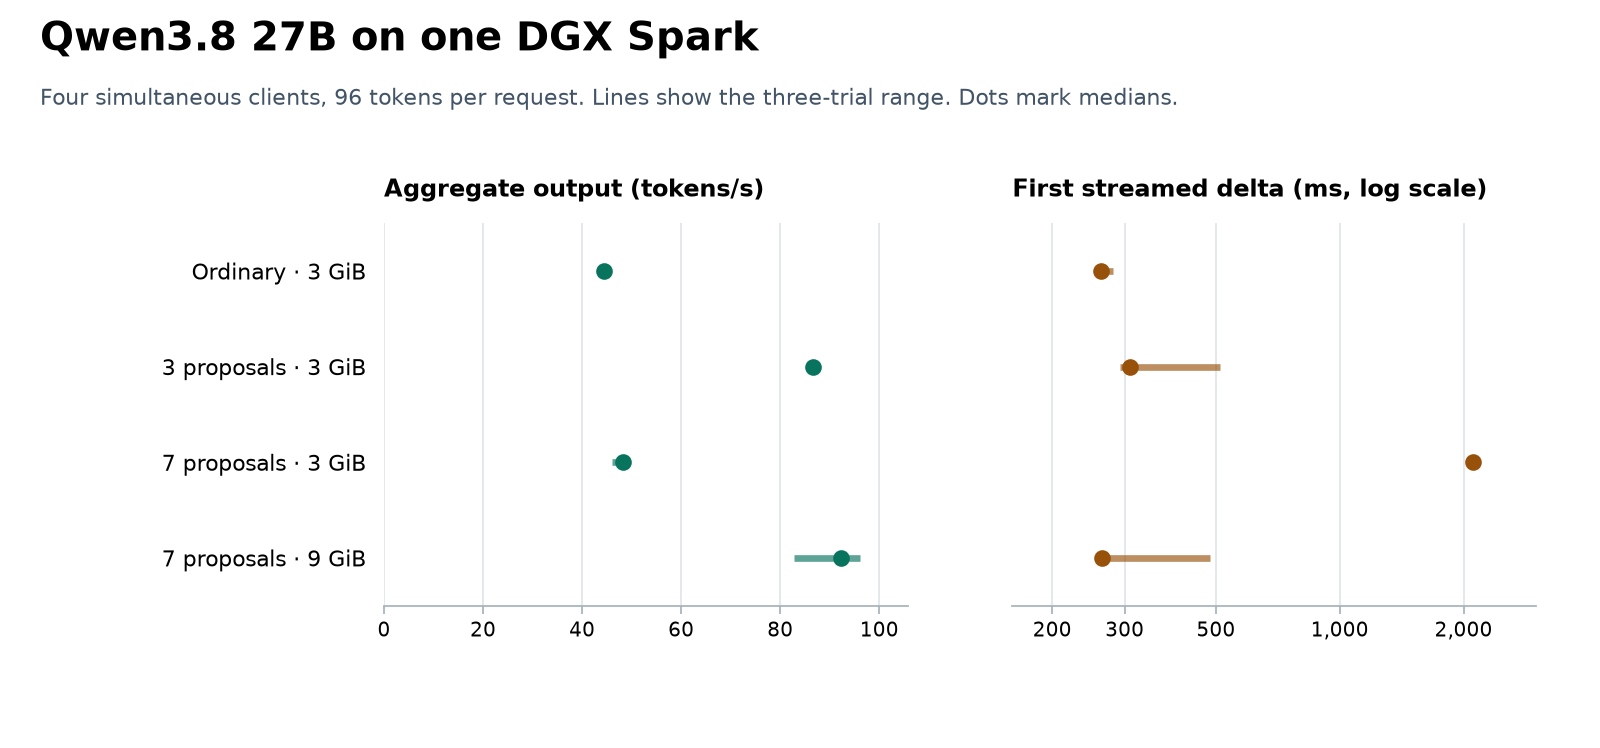
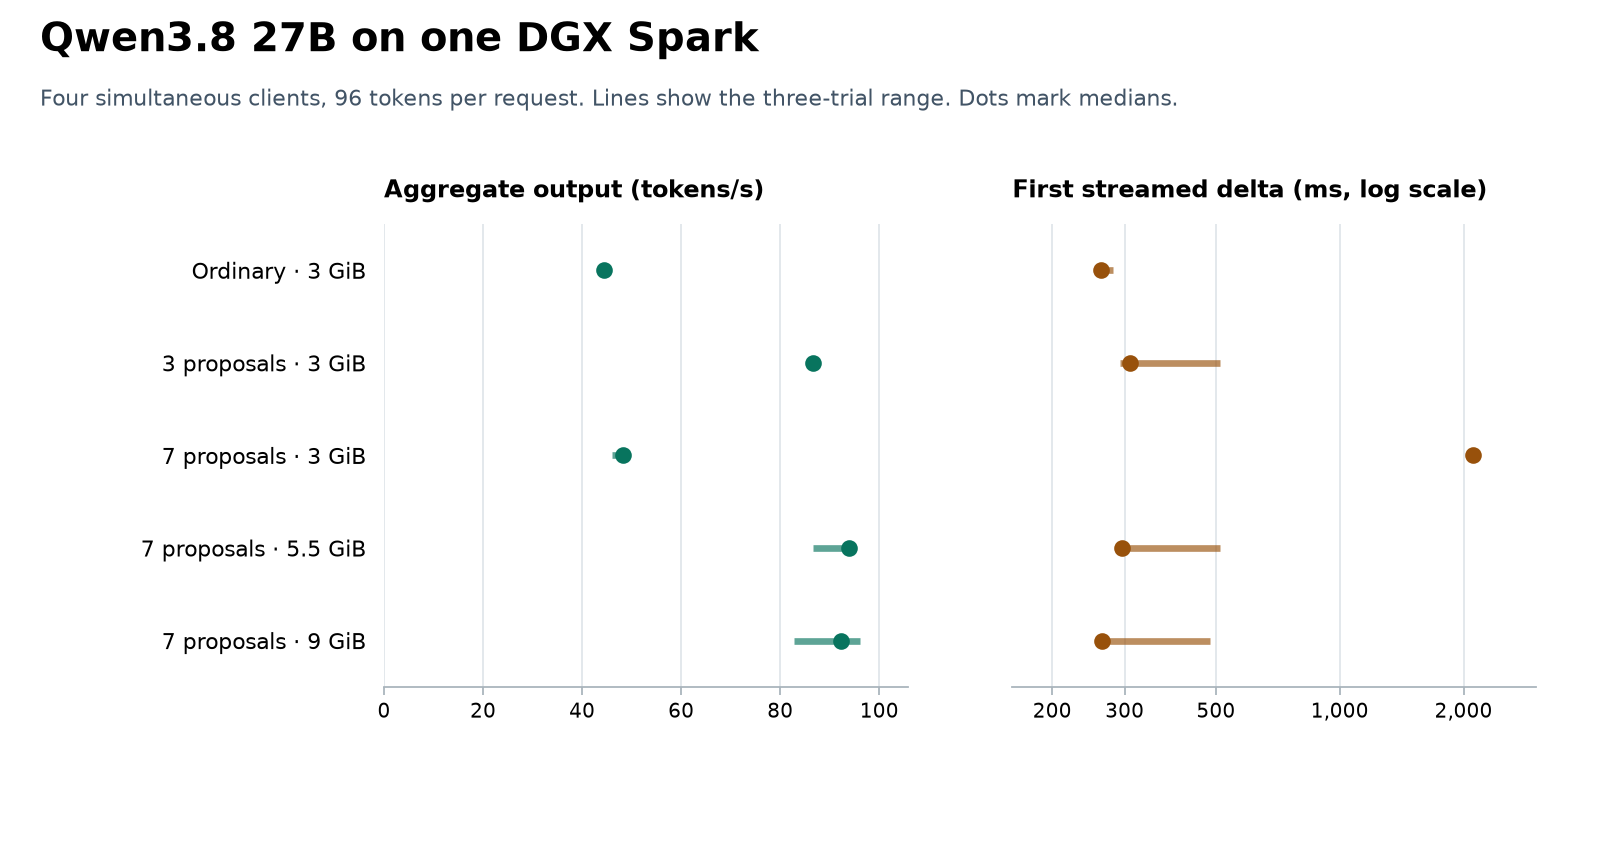
Keep four seven-token Qwen drafters active with 5.5 GiB of KV memory

diff --git a/README.md b/README.md
@@ -18,7 +18,7 @@ labski publishes reproducible experiments on local AI hardware. Each research sc
 - **Thinking Machines Inkling 2 Small on four Sparks.** The native 393.48 GB checkpoint delivered 39.34 generated tokens/s across two clients and 2.98 GPU J/output token on the switchless ring. Six inventory lookups were exact up to 3,597 input tokens. [Reproduce the run](inference-recipes/results/inkling2-gb10-runtime-2026-11-19/)
 - **Qwen3.8 Flash-Next on one or two Sparks.** The one-Spark NVIDIA FP4-Local checkpoint reached 33.98 tok/s for one client and 72.86 aggregate for four, using 1.08 and 0.52 GPU J/token. The tuned two-Spark recipe reached 21.73 and 64.96 tok/s and returned the first delta sooner at one client. [Recipes, accuracy and raw timing](inference-recipes/results/qwen38-flash-next-2026-11-19/)
 - **Selective BF16 with Qwen3.8 27B.** A mixed-first policy reproduced all 112 held-out BF16 answer letters while escalating 42 questions. It used 21.4% less two-Spark GPU energy than always querying BF16. Mixed alone was fastest and scored 73/112 against 72/112 for BF16 and the policy. [Live replay, accuracy and cost](inference-recipes/results/qwen38-27b-precision-routing-2026-11-19/)
-- **Qwen3.8 27B with DFlash2.** On one Spark, increasing the KV pool from 3 to 9 GiB with seven proposals brought four-client throughput from 48.20 to 92.29 tok/s and time to first streamed text from 2.10 s to 264 ms. The 28-question score moved from 19 to 18 and both runs passed all eight lookups. [Timing, GPU energy and queue measurements](inference-recipes/results/qwen38-27b-dflash2-2026-11-20/kv-budget/)
+- **Qwen3.8 27B with DFlash2.** On one Spark, increasing the KV pool from 3 to 5.5 GiB with seven proposals raised four-client throughput from 48.20 to 93.86 tok/s and cut the median time to first streamed text from 2.10 s to 296 ms. Both settings answered the same 19/28 questions correctly and passed all eight lookups. [Timing, GPU energy and queue measurements](inference-recipes/results/qwen38-27b-dflash2-2026-11-20/kv-budget/)
 - **Code editing with Qwen3.8 27B.** On one Spark, current-request suffix drafting reached 50.74 tok/s against 12.07 for ordinary decoding, with all 12 single-client edits matching token for token. Four clients reached 151.76 aggregate tok/s. Unrelated prose showed much smaller gains or a loss, depending on the proposer. [Four draft policies, paired outputs and GPU energy](inference-recipes/results/qwen38-27b-drafting-2026-11-19/)
 - **Qwen3.8 27B on one Spark.** Mixed FP4 delivered 2.78–2.79× the BF16 throughput on the same machines at one client. BF16 scored 83/112 on a short-answer diagnostic and mixed FP4 scored 74/112 and 78/112 on the two machines. [Timing, paired answers and recipes](inference-recipes/results/qwen38-27b-precision-2026-11-19/)
 - **One, two or four Sparks for Qwen3.8 27B.** One client reached 12.40, 20.46 and 33.94 output tok/s on one, two and four Sparks. Four clients reached 110.77 tok/s on the switchless RoCE ring using stock NCCL. With native BF16 those four delivered 54.33 tok/s and retained every sampled correctness verdict from the single-Spark BF16 baseline. [Transport, quality and GPU energy](inference-recipes/results/qwen38-27b-scaling-2026-11-19/) At 32 clients with 9 GiB KV per GPU, TP2 reached 354.39 tok/s at 0.21 GPU J/token. Two replicas reached 296.47 tok/s with a shorter p95 first-token wait (455 vs 587 ms). On the second pair, 3.25 GiB per GPU was enough for all 32 short requests and 351.58 tok/s on TP2. [Replica comparison](inference-recipes/results/qwen38-27b-pair-serving-2026-11-20/)

diff --git a/inference-recipes/results/qwen38-27b-dflash2-2026-11-20/kv-budget/README.md b/inference-recipes/results/qwen38-27b-dflash2-2026-11-20/kv-budget/README.md
@@ -4,6 +4,8 @@ On one GB10 we tested whether allocating more KV memory lets a seven-proposal dr
 
 With seven proposals, increasing KV memory from 3 to 9 GiB raised four-client throughput from **48.20 to 92.29 tok/s** and brought the median first streamed delta from **2.10 s to 264 ms**. GPU energy fell from 0.80 to 0.42 J/output token. The 9 GiB run scored 18/28 on short answers and 8/8 on lookups. At one client throughput stayed near 31 tok/s at both capacities.
 
+At **5.5 GiB**, seven proposals delivered **93.86 tok/s at four clients**, with a 296 ms median first delta and 0.42 GPU J/token. Across the three trials, throughput ranged from 86.68 to 95.09 tok/s. All four requests ran together in every trial, with peak KV usage of 98.6%. The 5.5 GiB and original 3 GiB runs answered the same 19/28 questions correctly. The answer strings matched on 26/28 questions. Both passed all eight lookups. These capacity measurements apply to the short prompts and 96-token completions in this workload. [5.5 GiB recipe](../../../recipes/qwen38-27b-dflash-v033-7-kv5632m.json)
+
 ![Four-client throughput and first streamed delta for Qwen on one Spark](four-clients.png)
 
 [Plot from per-trial measurements](plot.py)
@@ -13,10 +15,21 @@ With seven proposals, increasing KV memory from 3 to 9 GiB raised four-client th
 | [Original three](../3/) | 3 | 3 | 17,264 | 25.34 / 86.54 | 1.46 / 0.42 | 174 / 309 | 310 | 19 | 8 |
 | [Original seven](../7/) | 3 | 7 | 12,002 | 30.90 / 48.20 | 1.16 / 0.80 | 232 / 2105 | 4308 | 19 | 8 |
 | [Larger KV pool](7-kv9/) | 9 | 7 | 36,006 | 30.85 / 92.29 | 1.14 / 0.42 | 235 / 264 | 265 | 18 | 8 |
+| [5.5 GiB pool](7-kv5632m/) | 5.5 | 7 | 21,972 | 30.38 / 93.86 | 1.13 / 0.42 | 237 / 296 | 296 | 19 | 8 |
 
 ## Larger KV pool
 
 At four clients this run delivered 1.91× the throughput of the original seven and changed GPU energy per generated token by -48.0%. It gained 0 and lost 1 correct short answers. The maximum observed number of running requests in the three repeats was 4, 4, 4. Maximum waiting counts were 0, 0, 0. [Per-trial scheduler samples](7-kv9/scheduler-trials.jsonl) · [Timed trials](7-kv9/trials.jsonl)
+
+Peak sampled KV usage across the four-client trials reached 60.1% of the allocated pool.
+
+## 5.5 GiB pool
+
+At four clients this run delivered 1.95× the throughput of the original seven and changed GPU energy per generated token by -47.5%. It gained 0 and lost 0 correct short answers. The maximum observed number of running requests in the three repeats was 4, 4, 4. Maximum waiting counts were 0, 0, 0. [Per-trial scheduler samples](7-kv5632m/scheduler-trials.jsonl) · [Timed trials](7-kv5632m/trials.jsonl)
+
+Peak sampled KV usage across the four-client trials reached 98.6% of the allocated pool.
+
+Inside the sampled trial windows, the engine reported 7.00 at 1 client, 7.00 at 4 clients proposed tokens per draft block. The counters use the first and last in-window samples and can omit boundary steps. [Observed proposal widths](7-kv5632m/observed-draft-widths.jsonl)
 
 Each rate and latency is a median across three trials. Each trial submitted four 96-token prose requests after an excluded warm-up. GPU energy uses the cumulative NVML counter. The scheduler was polled every 250 ms during the new runs. [Sampler](../sample_metrics.py)
 

diff --git a/inference-recipes/results/qwen38-27b-dflash2-2026-11-20/README.md b/inference-recipes/results/qwen38-27b-dflash2-2026-11-20/README.md
@@ -2,7 +2,7 @@
 
 A single 128 GB Spark served NVIDIA’s 21.92 GB mixed NVFP4/FP8 target with z-lab’s 3.85 GB DFlash2 drafter using stock ARM64 vLLM 0.33.0. At seven proposed tokens per step it generated **30.90 output tok/s for one client and 48.20 aggregate for four**. The median time to first streamed delta increased from 232 ms at one client to 2.10 s at four. Both model revisions and the runtime digest are pinned. [Three-token recipe](../../recipes/qwen38-27b-dflash-v033-3.json) · [Seven-token recipe](../../recipes/qwen38-27b-dflash-v033-7.json) · [Target checkpoint](https://huggingface.co/nvidia/Qwen3.8-27B-NVFP4/tree/482ca0f3832238542f8f5295dde86b5f22711d80) · [Draft checkpoint](https://huggingface.co/z-lab/Qwen3.8-27B-DFlash2/tree/50307d4c4cde6860d4eee73e2547cd786fe8e8a4)
 
-At a fixed **3 GiB KV budget**, seven proposals were fastest for a single client (30.90 tok/s), while three were fastest for four clients (**86.54 aggregate tok/s**, 0.42 GPU J/token). Three proposals delivered 1.80× the four-client throughput of seven and reduced the median first streamed delta from 2.10 s to 309 ms. All three settings scored 19/28 on the short-answer panel and returned eight exact lookups. With 9 GiB of KV memory, seven proposals reached 92.29 tok/s at four clients with a 264 ms first delta. [KV budget comparison](kv-budget/)
+At a fixed **3 GiB KV budget**, seven proposals were fastest for a single client (30.90 tok/s), while three were fastest for four clients (**86.54 aggregate tok/s**, 0.42 GPU J/token). Three proposals delivered 1.80× the four-client throughput of seven and reduced the median first streamed delta from 2.10 s to 309 ms. All three settings scored 19/28 on the short-answer panel and returned eight exact lookups. With 5.5 GiB of KV memory, seven proposals reached 93.86 tok/s at four clients with a 296 ms first delta and the same 19/28 questions correct as the seven-proposal 3 GiB control. At 9 GiB the engine reached 92.29 tok/s with a 264 ms first delta and 18/28 correct. [KV budget comparison](kv-budget/)
 
 | Proposed tokens | Output tok/s, 1 / 4 clients | GPU J/output token, 1 / 4 | First delta, ms, 1 / 4 | Free answers / 28 | Exact lookups / 8 |
 | ---: | ---: | ---: | ---: | ---: | ---: |

diff --git a/inference-recipes/README.md b/inference-recipes/README.md
@@ -30,7 +30,7 @@ Additional catalog entries are candidates unless a result is linked. Node counts
 | Nanbeige4.3-33B precision sweep | 1 × 128 GB | [Official BF16](recipes/nanbeige43-33b-bf16.json), [official FP8](recipes/nanbeige43-33b-fp8.json), [community NVFP4](recipes/nanbeige43-33b-nvfp4.json) | At four clients, 14.10 / 24.14 / 43.50 tok/s and 63 / 63 / 60 free answers out of 112. [Measurements](results/nanbeige43-33b-2026-11-19/) |
 | [Qwen3.8 27B control](recipes/qwen38-27b-bf16.json) | 1, 2 or 4 × 128 GB | BF16 | 83/112 with identical verdicts at every topology, up to 13.92 tok/s C1 and 54.33 aggregate at C4 |
 | [Qwen3.8 27B precision and scaling](recipes/qwen38-27b-nvfp4.json) | 1, 2 or 4 × 128 GB | Mixed NVFP4/FP8 | Same scheduler, KV dtype and context as the BF16 control |
-| [Qwen3.8 27B DFlash2 on vLLM 0.33](recipes/qwen38-27b-dflash-v033-7.json) | 1 × 128 GB | Mixed NVFP4/FP8, BF16 KV | [30.90 / 48.20 tok/s with one / four clients, 19/28 short answers and all eight lookups](results/qwen38-27b-dflash2-2026-11-20/) |
+| [Qwen3.8 27B DFlash2 with 5.5 GiB KV](recipes/qwen38-27b-dflash-v033-7-kv5632m.json) | 1 × 128 GB | Mixed NVFP4/FP8, BF16 KV | [30.38 / 93.86 tok/s with one / four clients, 19/28 short answers and all eight lookups](results/qwen38-27b-dflash2-2026-11-20/kv-budget/) |
 | [Qwen3.8 27B DFlash2, stock vLLM](results/qwen38-27b-dflash2-2026-11-20/) | 1 × 128 GB | Mixed NVFP4/FP8 | With 3 GiB KV, three proposals led at four clients and seven at one |
 | [Qwen3.8 27B DFlash2 on NGC](recipes/qwen38-27b-dflash.json) | 1 × 128 GB | Mixed NVFP4/FP8 | Seven-token draft, FP8 KV cache, GB10 dynamic linear backend |
 | [Gemma 4 31B IT](recipes/gemma4-31b-nvfp4.json) | 1 × 128 GB | NVFP4 | Tool calling with an assistant drafter |
